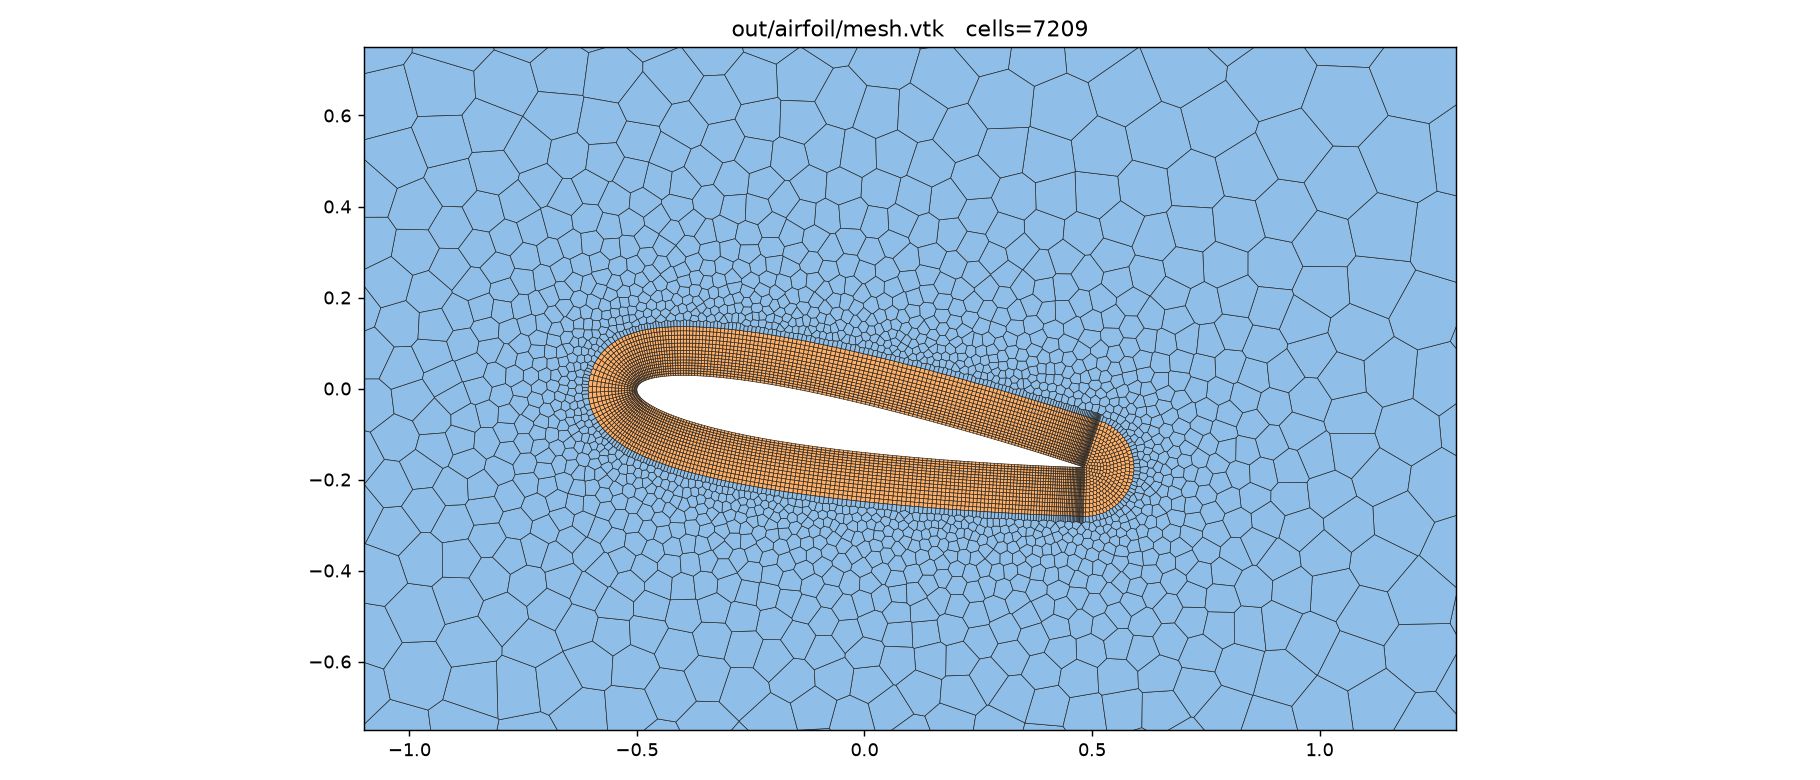
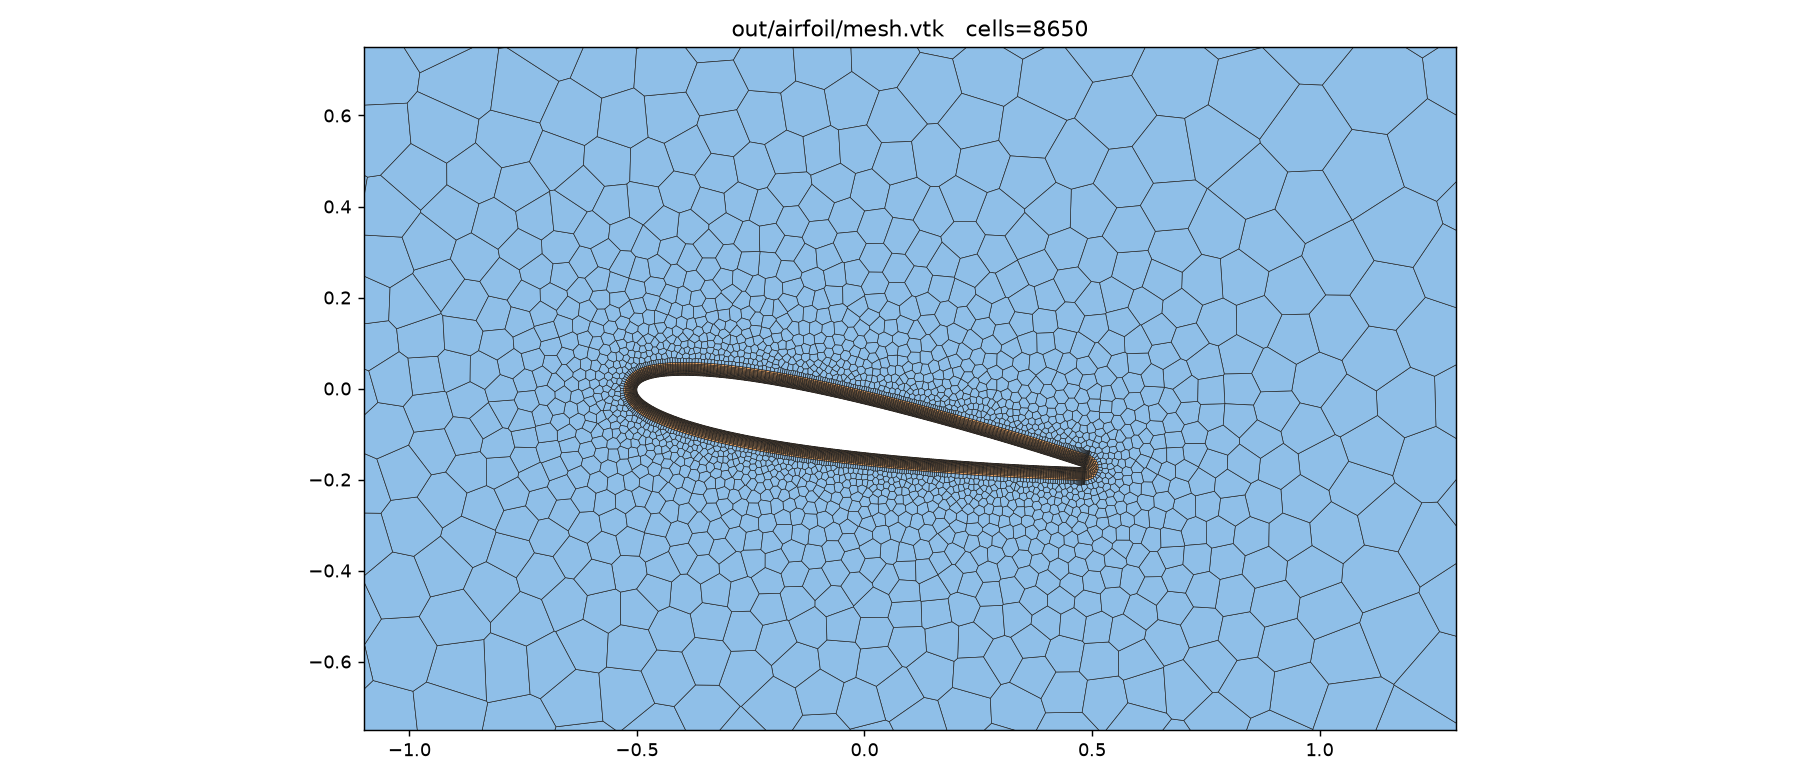
Thin the airfoil boundary layer so it hugs the surface and TE
The airfoil prism band was 0.108 (~11% chord) -- unphysically thick, producing
a large rounded prism cap at the trailing edge. Thin it to ~0.028 (2.8% c,
first cell 0.0012, growth 1.06) and match the tangential step to the near-wall
core size (0.006) for a clean 1:1 prism->poly interface. The boundary layer now
hugs the airfoil and wraps the sharp TE tightly, like a standard hybrid BL mesh.
Refresh airfoil preview images and the README figure.

Mesh passes polyMesh validation.

Claude-Session: https://claude.ai/code/session_01H7fb4XKKcHpsxCit9RfSzp

diff --git a/src/main.cpp b/src/main.cpp
@@ -114,7 +114,7 @@ static void caseAirfoil() {
     Domain dom;
     const double chord = 1.0, R = 5.0;
     dom.addCircle({0, 0}, R, "farfield", 0.35, /*hole*/ false); // outer, no prism
-    PrismSpec afPrism{15, 0.005, 1.05};  // thin boundary layer (total ~0.11 m)
+    PrismSpec afPrism{15, 0.0012, 1.06};  // thin boundary layer, total ~0.028 (2.8% c)
     const double aoaDeg = 10.0;
     const int nPerSide = 160;
     // Small blunt trailing edge (truncate at 94% chord -> TE thickness ~1.7% c).
@@ -127,12 +127,12 @@ static void caseAirfoil() {
     // Fine wall resolution; prism tangential spacing matches the near-airfoil
     // core size so the prism->polyhedral interface is continuous (1 prism : 1
     // polyhedron).
-    dom.addPolyLoop(af, "airfoil", /*hole*/ true, 0.008, afPrism);
+    dom.addPolyLoop(af, "airfoil", /*hole*/ true, 0.006, afPrism);
     dom.build();
 
     const int afLoop = 1; // farfield=0, airfoil=1
     const double band = afPrism.totalThickness();   // prism band thickness
-    const double hWall = 0.008;                      // core size at the prism front
+    const double hWall = 0.006;                      // core size at the prism front (1:1)
     Mesher::Options mo;
     // Hold the core size equal to the prism tangential spacing until the prism
     // front, then grade outward. This makes the first polyhedral cells the same

diff --git a/README.md b/README.md
@@ -15,7 +15,7 @@ Program `poly2d` generuje dva případy (jádro mesheru je ale plně obecné):
 | případ | doména | vnitřní těleso | prism |
 |--------|--------|----------------|-------|
 | `rect` | obdélník 50 × 15 cm | kruh ⌀ 4 cm ve středu | 5 vrstev na stěnách, 6 na válci |
-| `airfoil` | kruh ⌀ 10 m | profil **NACA 0012**, tětiva 1 m, úhel náběhu **10°** | **15 vrstev** na profilu, 1. buňka **0,005 m**, growth 1,05 |
+| `airfoil` | kruh ⌀ 10 m | profil **NACA 0012**, tětiva 1 m, úhel náběhu **10°** | **15 vrstev** na profilu, 1. buňka **0,0012 m**, growth 1,06 |
 
 <p align="center"><i>rect: polygonální jádro + prism u všech stěn a válce &nbsp;•&nbsp;
 airfoil: odstupňované jádro (jemné u profilu → hrubé u farfieldu) + mezní vrstva</i></p>
